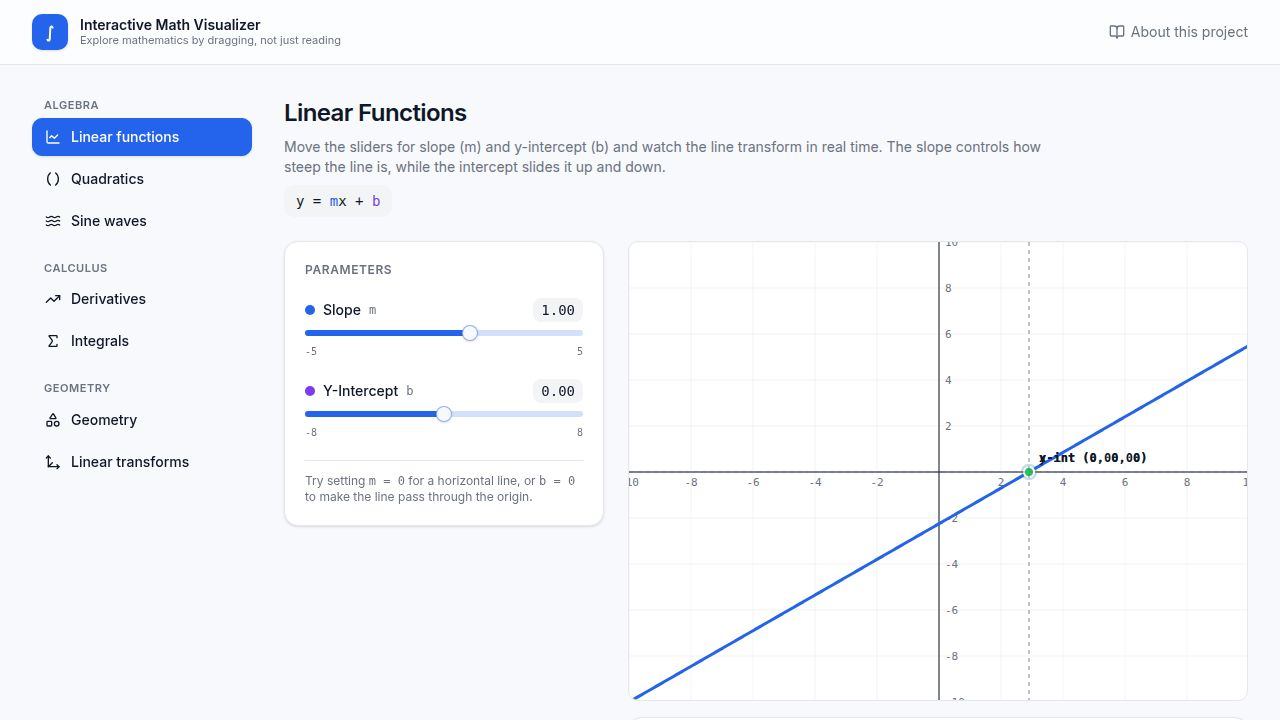
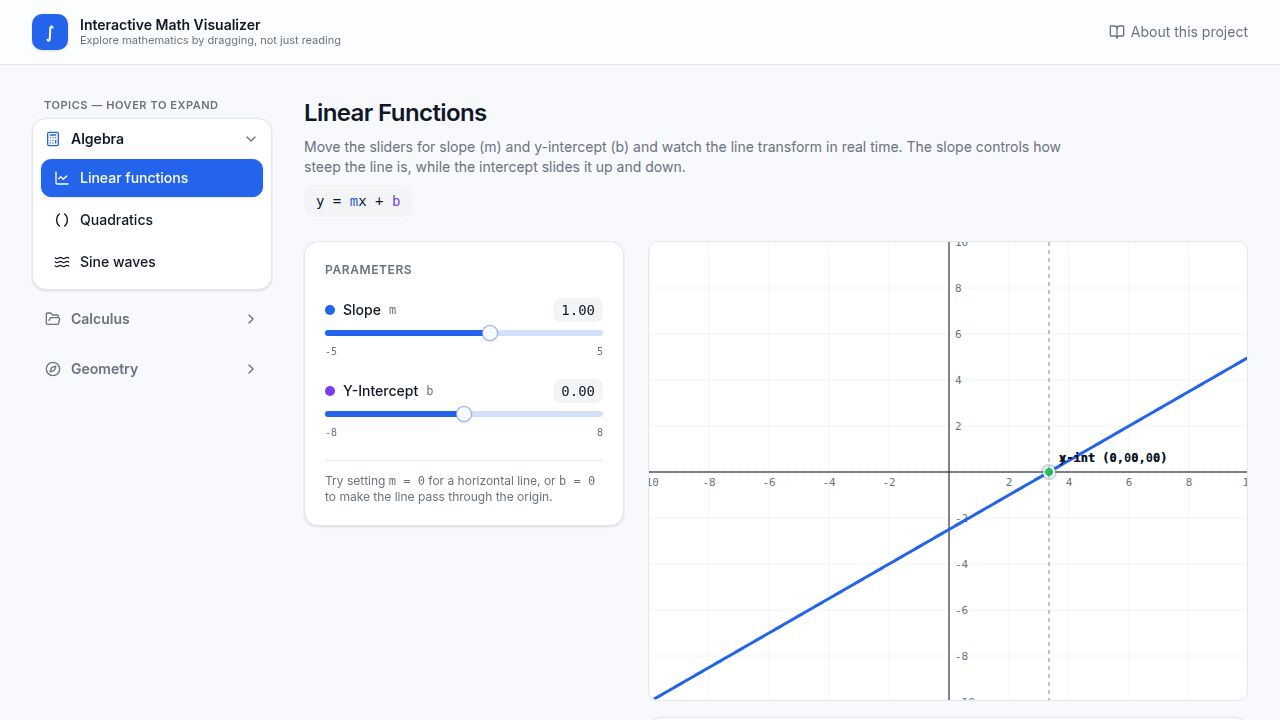
Add collapsible navigation and theme toggle to math visualizer
Implement collapsible navigation groups for Algebra, Calculus, and Geometry sections in `App.tsx`. Add a theme toggle button for switching between light and dark modes.

Replit-Commit-Author: Agent
Replit-Commit-Session-Id: cfb3b860-33ad-42ae-b1f2-881ffac46748
Replit-Commit-Checkpoint-Type: full_checkpoint
Replit-Commit-Event-Id: b039eb0c-e593-449d-8cf4-f25ef14e481a
Replit-Commit-Screenshot-Url: https://storage.googleapis.com/screenshot-production-us-central1/f12dccf1-bd33-4dc6-9b51-c714a5b7fa15/cfb3b860-33ad-42ae-b1f2-881ffac46748/898uxtY
Replit-Helium-Checkpoint-Created: true

diff --git a/artifacts/math-viz/src/App.tsx b/artifacts/math-viz/src/App.tsx
@@ -1,4 +1,4 @@
-import { useState } from "react";
+import { useState, useEffect } from "react";
 import { Switch, Route, Router as WouterRouter } from "wouter";
 import { QueryClient, QueryClientProvider } from "@tanstack/react-query";
 import { Toaster } from "@/components/ui/toaster";
@@ -12,7 +12,8 @@ import { IntegralModule } from "@/modules/IntegralModule";
 import { GeometryModule } from "@/modules/GeometryModule";
 import { TransformModule } from "@/modules/TransformModule";
 import {
-  LineChart, Sigma, Waves, TrendingUp, Shapes, Move3d, Parentheses, BookOpen,
+  LineChart, Sigma, Waves, TrendingUp, Shapes, Move3d, Parentheses,
+  BookOpen, ChevronDown, Sun, Moon, FolderOpen, Calculator, Compass,
 } from "lucide-react";
 
 const queryClient = new QueryClient();
@@ -29,10 +30,119 @@ const NAV: { id: ModuleId; label: string; group: string; icon: React.ComponentTy
   { id: "transform", label: "Linear transforms", group: "Geometry", icon: Move3d, component: TransformModule },
 ];
 
+const GROUP_ICONS: Record<string, React.ComponentType<{ className?: string }>> = {
+  Algebra: Calculator,
+  Calculus: FolderOpen,
+  Geometry: Compass,
+};
+
+function NavGroup({
+  name,
+  active,
+  onSelect,
+}: {
+  name: string;
+  active: ModuleId;
+  onSelect: (id: ModuleId) => void;
+}) {
+  const items = NAV.filter((n) => n.group === name);
+  const containsActive = items.some((i) => i.id === active);
+  const [hover, setHover] = useState(false);
+  // Open when hovered OR when this group contains the active item
+  const open = hover || containsActive;
+  const GroupIcon = GROUP_ICONS[name] ?? FolderOpen;
+
+  return (
+    <div
+      onMouseEnter={() => setHover(true)}
+      onMouseLeave={() => setHover(false)}
+      className={`rounded-xl border transition-colors ${
+        open ? "bg-card border-card-border shadow-sm" : "bg-transparent border-transparent hover-elevate"
+      }`}
+    >
+      <div className="flex items-center justify-between px-3 py-2.5 cursor-pointer select-none">
+        <div className="flex items-center gap-2.5">
+          <GroupIcon className={`w-4 h-4 ${containsActive ? "text-primary" : "text-muted-foreground"}`} />
+          <span className={`text-sm font-semibold ${containsActive ? "text-foreground" : "text-muted-foreground"}`}>{name}</span>
+        </div>
+        <ChevronDown
+          className={`w-4 h-4 text-muted-foreground transition-transform duration-300 ${open ? "rotate-0" : "-rotate-90"}`}
+        />
+      </div>
+
+      <div
+        className="grid transition-all duration-300 ease-out overflow-hidden"
+        style={{ gridTemplateRows: open ? "1fr" : "0fr" }}
+      >
+        <div className="min-h-0">
+          <div className="px-2 pb-2 space-y-1">
+            {items.map((n) => {
+              const Icon = n.icon;
+              const isActive = active === n.id;
+              return (
+                <button
+                  key={n.id}
+                  onClick={() => onSelect(n.id)}
+                  className={`w-full flex items-center gap-2.5 px-3 py-2 rounded-lg text-sm font-medium transition-colors text-left border ${
+                    isActive
+                      ? "bg-primary text-primary-foreground border-primary shadow-sm"
+                      : "text-foreground bg-transparent border-transparent hover-elevate"
+                  }`}
+                >
+                  <Icon className="w-4 h-4 flex-shrink-0" />
+                  <span className="truncate">{n.label}</span>
+                </button>
+              );
+            })}
+          </div>
+        </div>
+      </div>
+    </div>
+  );
+}
+
+function ThemeToggle({ theme, onToggle }: { theme: "light" | "dark"; onToggle: () => void }) {
+  const isDark = theme === "dark";
+  return (
+    <button
+      onClick={onToggle}
+      aria-label="Toggle dark mode"
+      className="fixed bottom-5 left-5 z-40 group flex items-center gap-2.5 pl-3 pr-4 h-11 rounded-full bg-card border border-card-border shadow-lg hover-elevate transition-all"
+    >
+      <span className="relative w-7 h-7 rounded-full grid place-items-center bg-primary text-primary-foreground overflow-hidden">
+        <Sun
+          className={`w-4 h-4 absolute transition-all duration-300 ${
+            isDark ? "opacity-0 -rotate-90 scale-50" : "opacity-100 rotate-0 scale-100"
+          }`}
+        />
+        <Moon
+          className={`w-4 h-4 absolute transition-all duration-300 ${
+            isDark ? "opacity-100 rotate-0 scale-100" : "opacity-0 rotate-90 scale-50"
+          }`}
+        />
+      </span>
+      <span className="text-sm font-medium">{isDark ? "Dark" : "Light"} mode</span>
+    </button>
+  );
+}
+
 function Home() {
   const [active, setActive] = useState<ModuleId>("linear");
-  const ActiveComponent = NAV.find((n) => n.id === active)?.component ?? LinearModule;
+  const [theme, setTheme] = useState<"light" | "dark">(() => {
+    if (typeof window === "undefined") return "light";
+    const saved = window.localStorage.getItem("math-viz-theme");
+    if (saved === "light" || saved === "dark") return saved;
+    return window.matchMedia?.("(prefers-color-scheme: dark)").matches ? "dark" : "light";
+  });
 
+  useEffect(() => {
+    const root = document.documentElement;
+    if (theme === "dark") root.classList.add("dark");
+    else root.classList.remove("dark");
+    window.localStorage.setItem("math-viz-theme", theme);
+  }, [theme]);
+
+  const ActiveComponent = NAV.find((n) => n.id === active)?.component ?? LinearModule;
   const groups = Array.from(new Set(NAV.map((n) => n.group)));
 
   return (
@@ -57,30 +167,13 @@ function Home() {
       </header>
 
       <div className="max-w-[1400px] mx-auto px-4 sm:px-6 lg:px-8 py-6 lg:py-8">
-        <div className="grid grid-cols-1 lg:grid-cols-[220px_1fr] gap-6 lg:gap-8">
-          <nav className="space-y-5 lg:sticky lg:top-24 h-fit">
+        <div className="grid grid-cols-1 lg:grid-cols-[240px_1fr] gap-6 lg:gap-8">
+          <nav className="space-y-2 lg:sticky lg:top-24 h-fit">
+            <div className="text-[11px] uppercase tracking-wider font-semibold text-muted-foreground px-3 mb-1">
+              Topics — hover to expand
+            </div>
             {groups.map((g) => (
-              <div key={g} className="space-y-1">
-                <div className="text-[11px] uppercase tracking-wider font-semibold text-muted-foreground px-3">{g}</div>
-                {NAV.filter((n) => n.group === g).map((n) => {
-                  const Icon = n.icon;
-                  const isActive = active === n.id;
-                  return (
-                    <button
-                      key={n.id}
-                      onClick={() => setActive(n.id)}
-                      className={`w-full flex items-center gap-2.5 px-3 py-2 rounded-lg text-sm font-medium transition-colors text-left border ${
-                        isActive
-                          ? "bg-primary text-primary-foreground border-primary shadow-sm"
-                          : "text-foreground bg-transparent border-transparent hover-elevate"
-                      }`}
-                    >
-                      <Icon className="w-4 h-4 flex-shrink-0" />
-                      <span>{n.label}</span>
-                    </button>
-                  );
-                })}
-              </div>
+              <NavGroup key={g} name={g} active={active} onSelect={setActive} />
             ))}
           </nav>
 
@@ -120,6 +213,8 @@ function Home() {
           </main>
         </div>
       </div>
+
+      <ThemeToggle theme={theme} onToggle={() => setTheme((t) => (t === "dark" ? "light" : "dark"))} />
     </div>
   );
 }